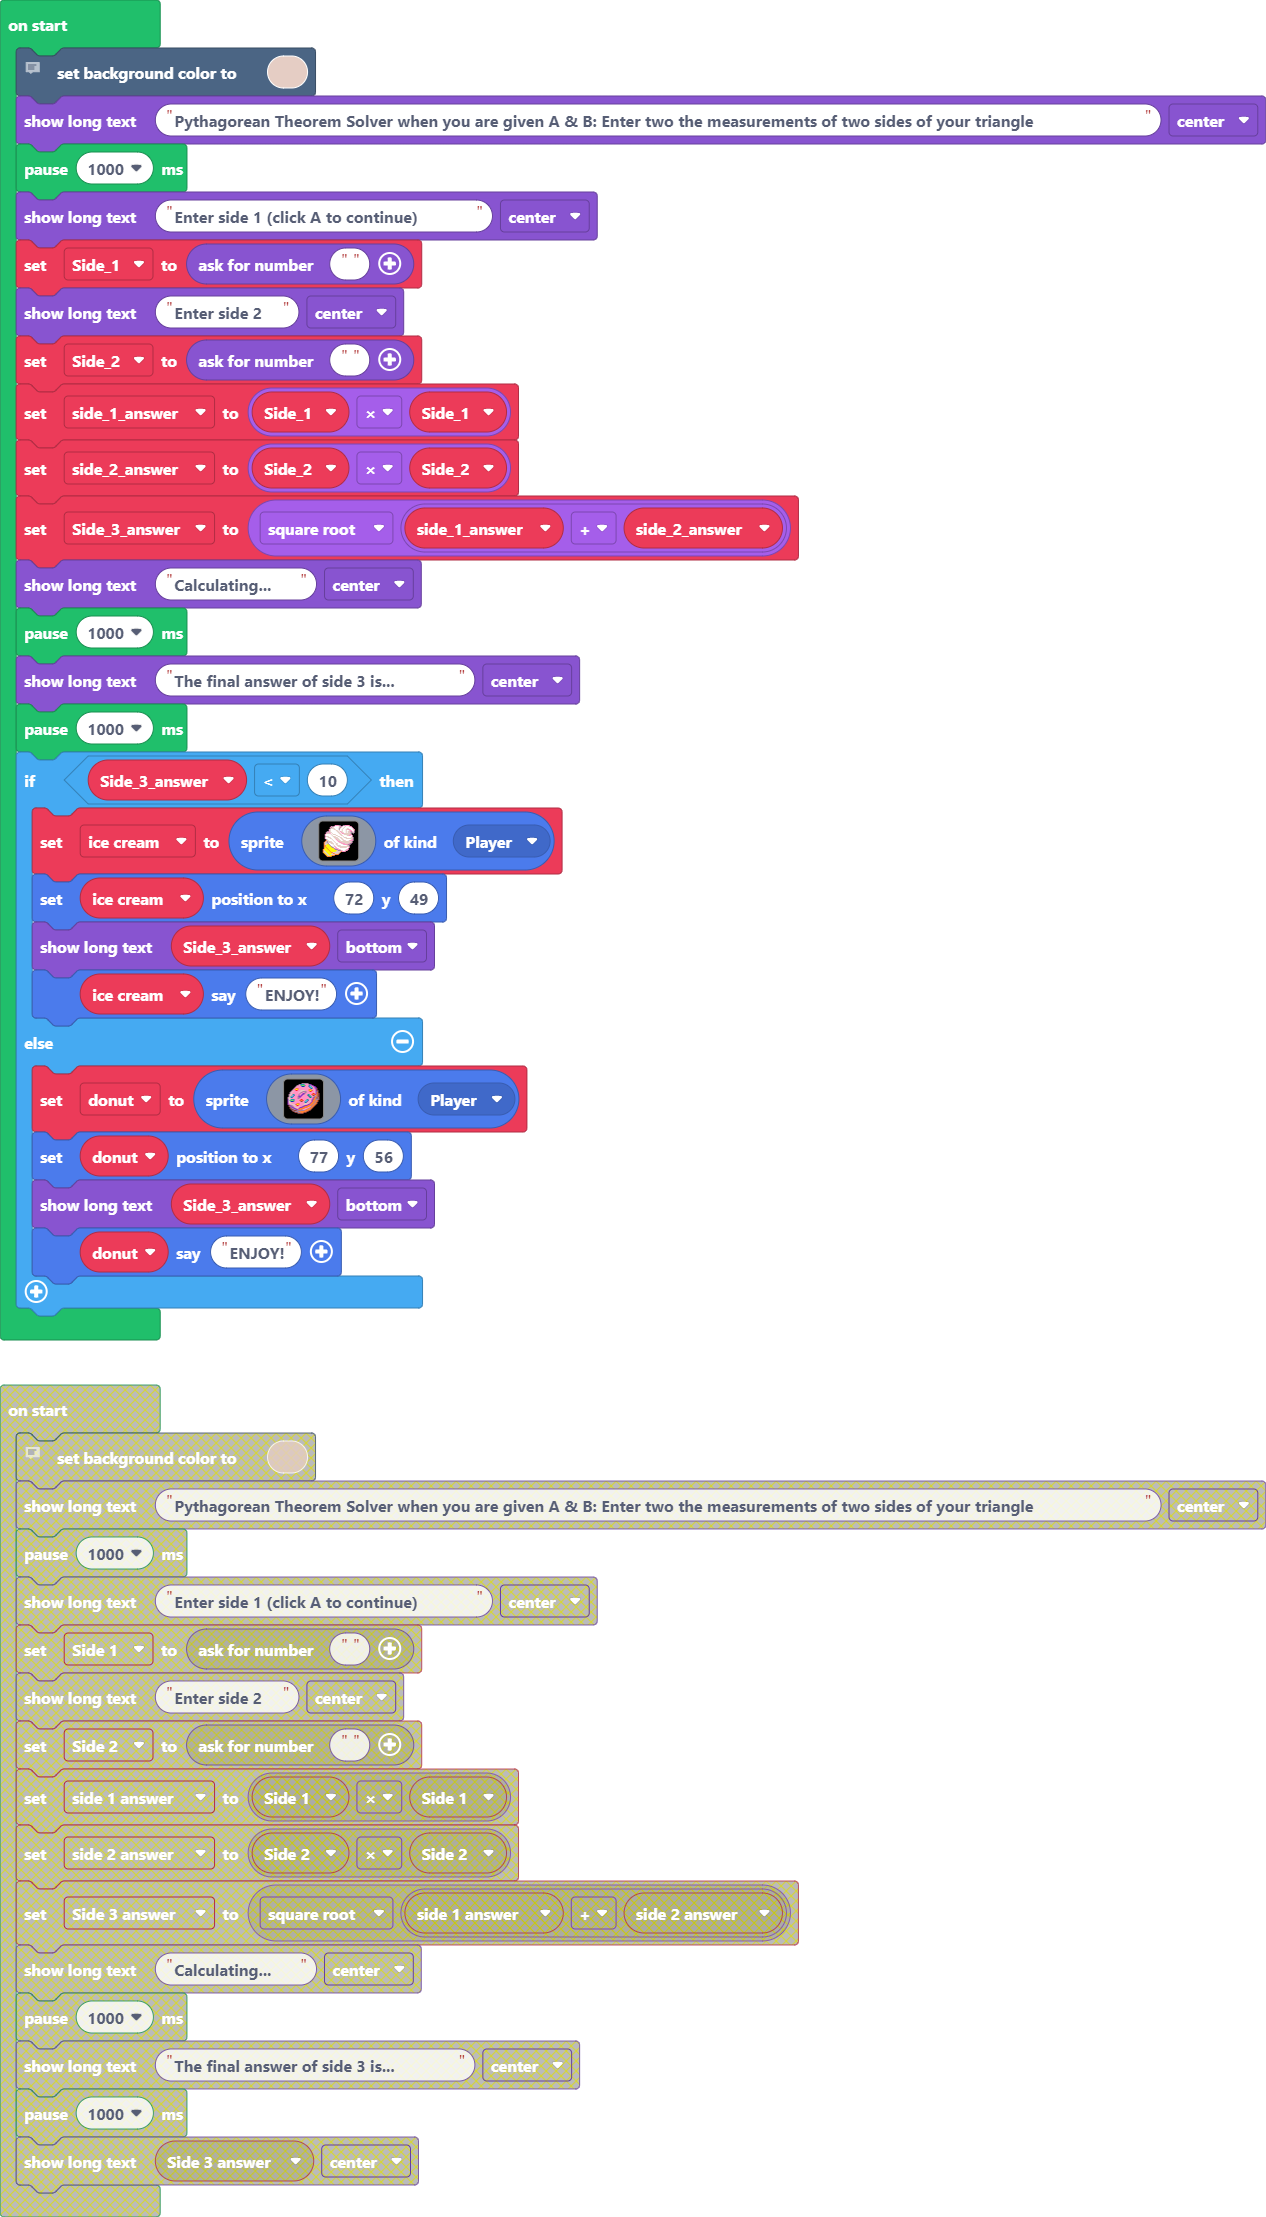
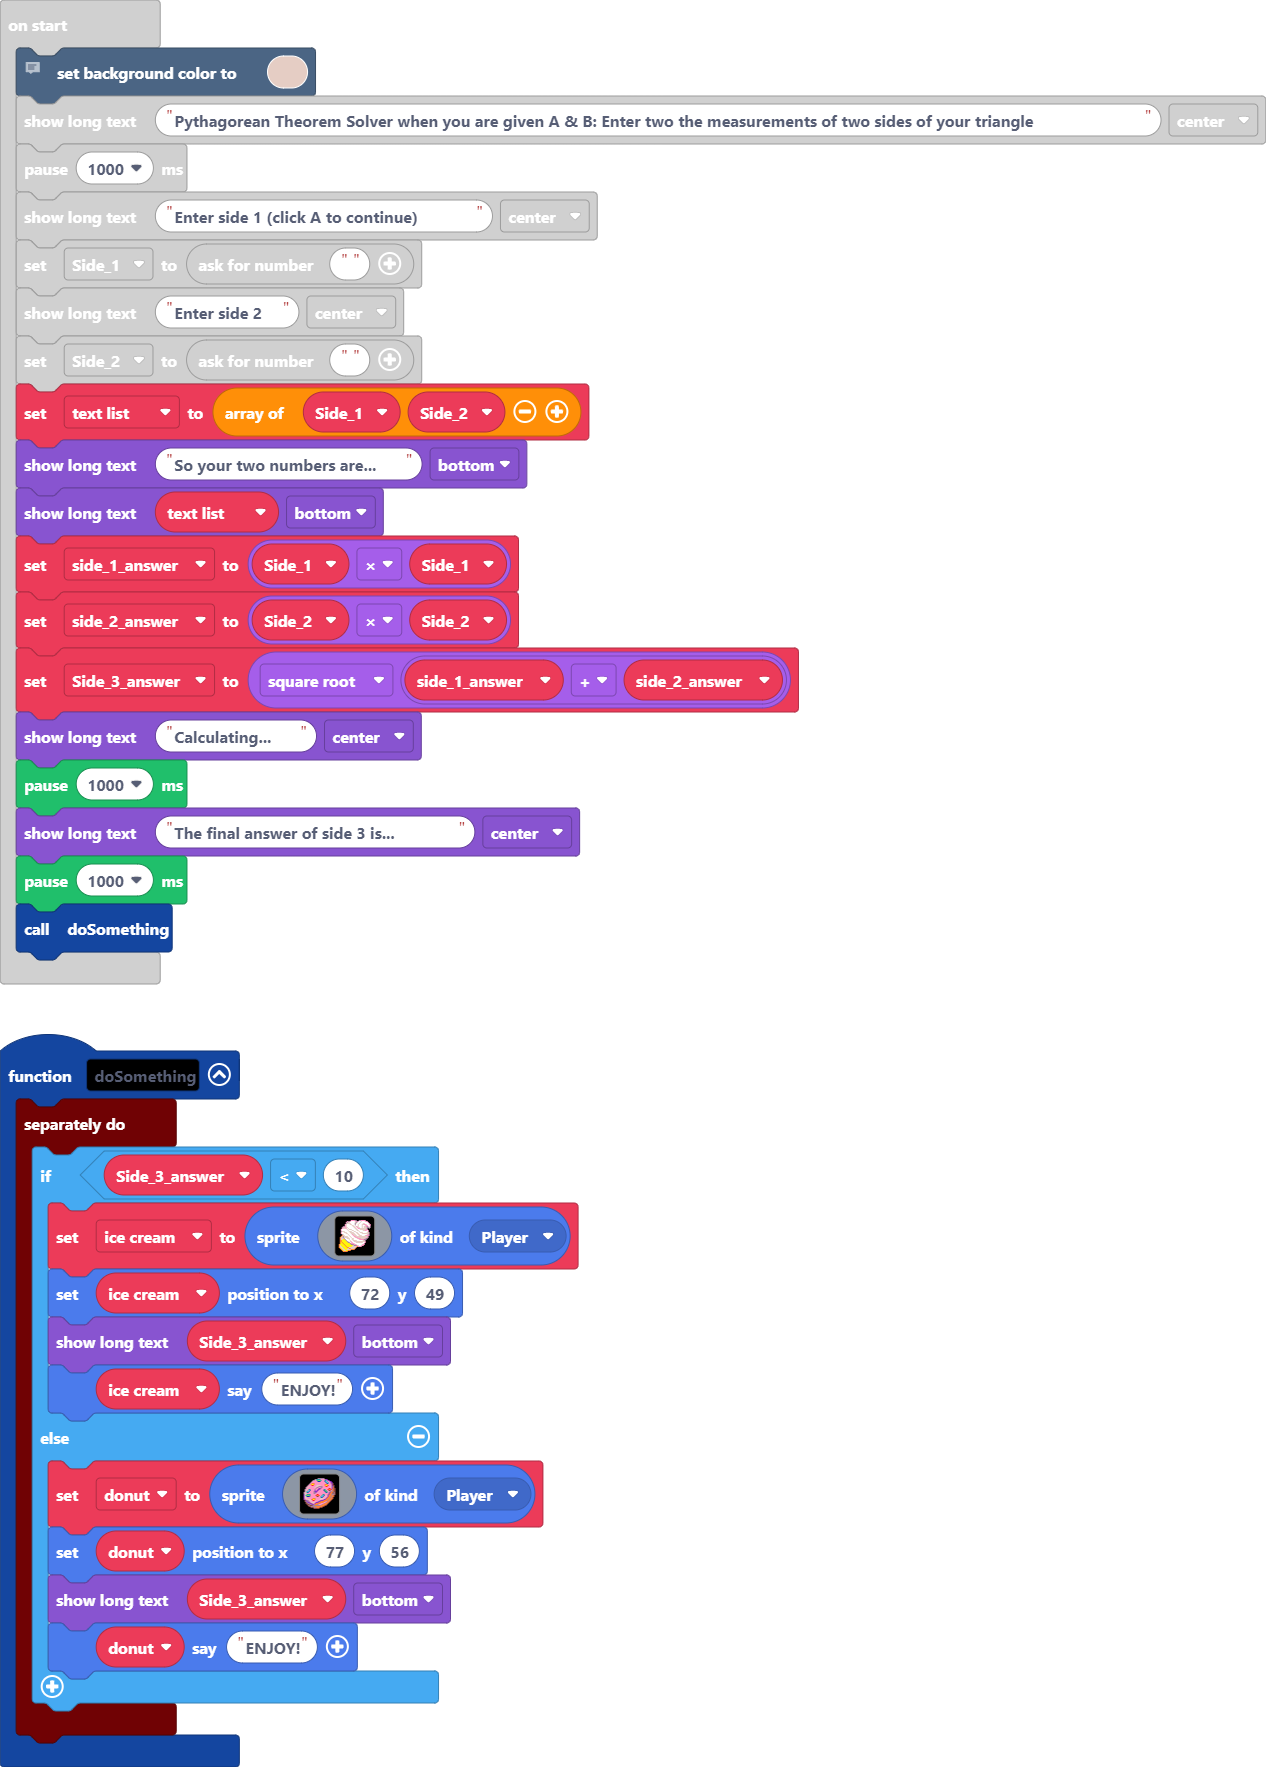
Update pxt.json, main.blocks, main.ts

diff --git a/main.ts b/main.ts
@@ -1,5 +1,87 @@
+function doSomething () {
+    timer.background(function () {
+        if (Side_3_answer < 10) {
+            ice_cream = sprites.create(img`
+                ............3333bb..bb33333.....
+                ........3bb31111d3b311d111d33...
+                .......3bdd11111dbd11d11111113..
+                .......bdddd1111bd11d111dd11113.
+                ......3d111dd111b11d111dd33d11d3
+                ......3d11111dd1d11d111d11d33113
+                ....bb3d111111dd13dd111d1dd3b31b
+                ...b3d3dd111111dd13dd11d1dddbbdb
+                ...3ddd31d111111dd133dddddddb.b.
+                ..311111d1ddd1111dd11dddddd33...
+                ..3111111d111dd111dd1111dd3313..
+                ..bddd1111ddd11dd111d111111113..
+                ..311ddd111dddd11dd11ddd1111ddb.
+                ..31111dd111dddd11dd111dddddddb.
+                ...bd1111d1113ddd11dd1111111d3b.
+                ...4dd1111d1113ddd11ddd111d333b.
+                ..4dbdddd11d11133ddddddddddddb..
+                .4ddbddddd11d111d33ddddddddd3b..
+                .4dddb11ddd11dd111d333dddd3bb...
+                .4dd55b111d11dd11111d3333bbb....
+                .445555b111d11dddd111111ddb.....
+                .4455555bd1d311ddddddddddd3.....
+                .45455555bb1d3111ddddddd113.....
+                .4554555555b333d1111111113......
+                455554555555bbb33d11111d33......
+                4d555545555555dbbb3d11d33.......
+                4dd5555455555ddddd43333.........
+                45dd555544ddddddd4..............
+                .45dd5555d44dddd4...............
+                ..45dd55dddd4444................
+                ...45dd55444....................
+                ....44444.......................
+                `, SpriteKind.Player)
+            ice_cream.setPosition(72, 49)
+            game.showLongText(Side_3_answer, DialogLayout.Bottom)
+            ice_cream.sayText("ENJOY!")
+        } else {
+            donut = sprites.create(img`
+                ..............bbbbbbb...........
+                ...........bb66663333baa........
+                .........bb3367776333663aa......
+                ........b33333888333389633aa....
+                .......b3333333333333389633aa...
+                ......b34443333333333338633bae..
+                .....b3455433333333334443333ae..
+                ....b33322333dddd3333455233daee.
+                ...b3d333333dd3bbbb33322333dabe.
+                ..b3d333333d3bb33bb33333333da4e.
+                ..bd33333333b33aab3333333223a4ee
+                .b3d3663333b33aab33366332442b4ee
+                .bd3b983333a3aa3333387633ee3b4ee
+                .bd6983333baaa333333387633bb4bee
+                b3d6833333bba333333333863ba44ebe
+                bdd3333333bb3333333333333a44bebe
+                add666633333322333366333ba44bbbe
+                ad67776333332442336983d3a444b4e.
+                add888b333333ee3369833d3a44b44e.
+                add333333333333336833d3a444b4e..
+                a3dd3333344433333dddd3a444b44e..
+                ab33ddd325543333dd33aa444b44e...
+                .eabb3dd32233333baaa4444b44e....
+                .ebabb3d333d33baa444443b44e.....
+                ..ebaab3ddd3aaa4444433b44e......
+                ..eebbaab33a44444333b444e.......
+                ...eeebbaab444b333b4444e........
+                ....ebeeebbbbbbbb4444ee.........
+                .....eebbbb44444444ee...........
+                .......eeebbb444eee.............
+                ..........eeeeee................
+                ................................
+                `, SpriteKind.Player)
+            donut.setPosition(77, 56)
+            game.showLongText(Side_3_answer, DialogLayout.Bottom)
+            donut.sayText("ENJOY!")
+        }
+    })
+}
 let donut: Sprite = null
 let ice_cream: Sprite = null
+let Side_3_answer = 0
 // dont forget to add comment!!!
 scene.setBackgroundColor(13)
 game.showLongText("Pythagorean Theorem Solver when you are given A & B: Enter two the measurements of two sides of your triangle ", DialogLayout.Center)
@@ -8,87 +90,14 @@ game.showLongText("Enter side 1 (click A to continue)", DialogLayout.Center)
 let Side_1 = game.askForNumber("")
 game.showLongText("Enter side 2", DialogLayout.Center)
 let Side_2 = game.askForNumber("")
+let text_list = [Side_1, Side_2]
+game.showLongText("So your two numbers are...", DialogLayout.Bottom)
+game.showLongText(text_list, DialogLayout.Bottom)
 let side_1_answer = Side_1 * Side_1
 let side_2_answer = Side_2 * Side_2
-let Side_3_answer = Math.sqrt(side_1_answer + side_2_answer)
+Side_3_answer = Math.sqrt(side_1_answer + side_2_answer)
 game.showLongText("Calculating...", DialogLayout.Center)
 pause(1000)
 game.showLongText("The final answer of side 3 is...", DialogLayout.Center)
 pause(1000)
-if (Side_3_answer < 10) {
-    ice_cream = sprites.create(img`
-        ............3333bb..bb33333.....
-        ........3bb31111d3b311d111d33...
-        .......3bdd11111dbd11d11111113..
-        .......bdddd1111bd11d111dd11113.
-        ......3d111dd111b11d111dd33d11d3
-        ......3d11111dd1d11d111d11d33113
-        ....bb3d111111dd13dd111d1dd3b31b
-        ...b3d3dd111111dd13dd11d1dddbbdb
-        ...3ddd31d111111dd133dddddddb.b.
-        ..311111d1ddd1111dd11dddddd33...
-        ..3111111d111dd111dd1111dd3313..
-        ..bddd1111ddd11dd111d111111113..
-        ..311ddd111dddd11dd11ddd1111ddb.
-        ..31111dd111dddd11dd111dddddddb.
-        ...bd1111d1113ddd11dd1111111d3b.
-        ...4dd1111d1113ddd11ddd111d333b.
-        ..4dbdddd11d11133ddddddddddddb..
-        .4ddbddddd11d111d33ddddddddd3b..
-        .4dddb11ddd11dd111d333dddd3bb...
-        .4dd55b111d11dd11111d3333bbb....
-        .445555b111d11dddd111111ddb.....
-        .4455555bd1d311ddddddddddd3.....
-        .45455555bb1d3111ddddddd113.....
-        .4554555555b333d1111111113......
-        455554555555bbb33d11111d33......
-        4d555545555555dbbb3d11d33.......
-        4dd5555455555ddddd43333.........
-        45dd555544ddddddd4..............
-        .45dd5555d44dddd4...............
-        ..45dd55dddd4444................
-        ...45dd55444....................
-        ....44444.......................
-        `, SpriteKind.Player)
-    ice_cream.setPosition(72, 49)
-    game.showLongText(Side_3_answer, DialogLayout.Bottom)
-    ice_cream.sayText("ENJOY!")
-} else {
-    donut = sprites.create(img`
-        ..............bbbbbbb...........
-        ...........bb66663333baa........
-        .........bb3367776333663aa......
-        ........b33333888333389633aa....
-        .......b3333333333333389633aa...
-        ......b34443333333333338633bae..
-        .....b3455433333333334443333ae..
-        ....b33322333dddd3333455233daee.
-        ...b3d333333dd3bbbb33322333dabe.
-        ..b3d333333d3bb33bb33333333da4e.
-        ..bd33333333b33aab3333333223a4ee
-        .b3d3663333b33aab33366332442b4ee
-        .bd3b983333a3aa3333387633ee3b4ee
-        .bd6983333baaa333333387633bb4bee
-        b3d6833333bba333333333863ba44ebe
-        bdd3333333bb3333333333333a44bebe
-        add666633333322333366333ba44bbbe
-        ad67776333332442336983d3a444b4e.
-        add888b333333ee3369833d3a44b44e.
-        add333333333333336833d3a444b4e..
-        a3dd3333344433333dddd3a444b44e..
-        ab33ddd325543333dd33aa444b44e...
-        .eabb3dd32233333baaa4444b44e....
-        .ebabb3d333d33baa444443b44e.....
-        ..ebaab3ddd3aaa4444433b44e......
-        ..eebbaab33a44444333b444e.......
-        ...eeebbaab444b333b4444e........
-        ....ebeeebbbbbbbb4444ee.........
-        .....eebbbb44444444ee...........
-        .......eeebbb444eee.............
-        ..........eeeeee................
-        ................................
-        `, SpriteKind.Player)
-    donut.setPosition(77, 56)
-    game.showLongText(Side_3_answer, DialogLayout.Bottom)
-    donut.sayText("ENJOY!")
-}
+doSomething()
